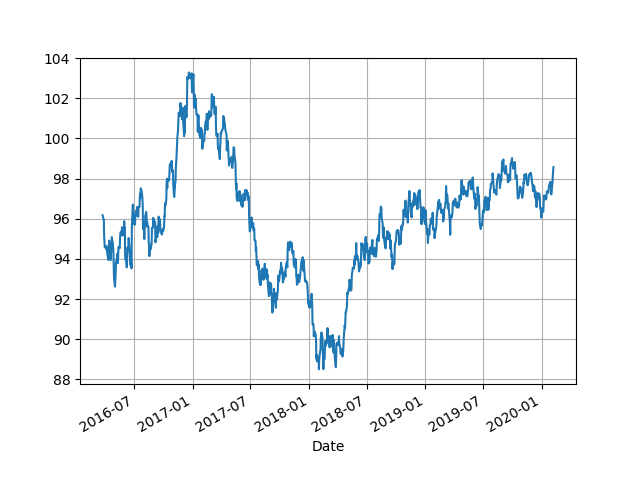
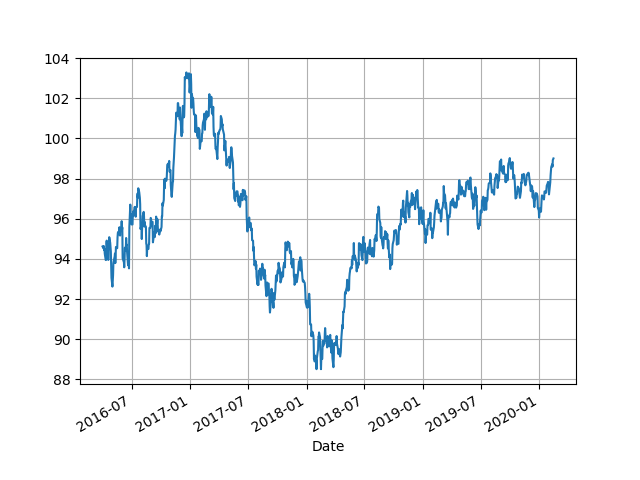
-

diff --git a/en/2019/05/stats.md b/en/2019/05/stats.md
@@ -240,10 +240,10 @@ plt.savefig('initial-claims.png')
 ```text
             IC4WSA
 DATE              
-2020-01-11  216500
 2020-01-18  216250
 2020-01-25  214750
-2020-02-01  211750
+2020-02-01  212000
+2020-02-08  212000
 ```
 
 ![](initial-claims.png)
@@ -274,10 +274,11 @@ plt.savefig('pmi.png')
 
 ```text
 Date
-2019-09-01    47.8
-2019-10-01    48.3
+2019-09-01    48.2
+2019-10-01    48.5
 2019-11-01    48.1
-2019-12-01    47.2
+2019-12-01    47.8
+2020-01-01    50.9
 Name: PMI, dtype: float64
 ```
 
@@ -330,12 +331,12 @@ print (df.tail(6))
 ```text
             Value
 Date             
-2019-07-31  1.811
 2019-08-31  1.750
 2019-09-30  1.711
 2019-10-31  1.764
 2019-11-30  2.051
 2019-12-31  2.285
+2020-01-31  2.487
 ```
 
 <a name="cpyoy"></a>
@@ -391,12 +392,12 @@ print (np.array([m-s,m+s]).T)
 
 ```text
 Date
-2020-02-04    97.809
-2020-02-05    98.158
-2020-02-06    98.381
-2020-02-07    98.571
+2020-02-11    98.594
+2020-02-12    98.922
+2020-02-13    98.958
+2020-02-14    99.003
 Name: Settle, dtype: float64
-[ 81.77593163 102.74089272]
+[ 81.78151066 102.7428386 ]
 ```
 
 ```python
@@ -502,5 +503,34 @@ plt.savefig('price-sales.png')
 ```
 
 ![](price-sales.png)
+
+<a name="junkbond"></a>
+
+# B-Grade Junk Bond Yields
+
+```python
+import pandas as pd, datetime
+from pandas_datareader import data
+import quandl
+
+today = datetime.datetime.now()
+start=datetime.datetime(1980, 1, 1)
+end=datetime.datetime(today.year, today.month, today.day)
+cols = ['BAMLH0A2HYBEY']
+df = data.DataReader(cols, 'fred', start, end)
+df.plot()
+plt.axvspan('01-03-2001', '27-10-2001', color='y', alpha=0.5, lw=0)
+plt.axvspan('22-12-2007', '09-05-2009', color='y', alpha=0.5, lw=0)
+plt.savefig('junkbond.png')
+```
+
+![](junkbond.png)
+
+
+
+
+
+
+
 
 
